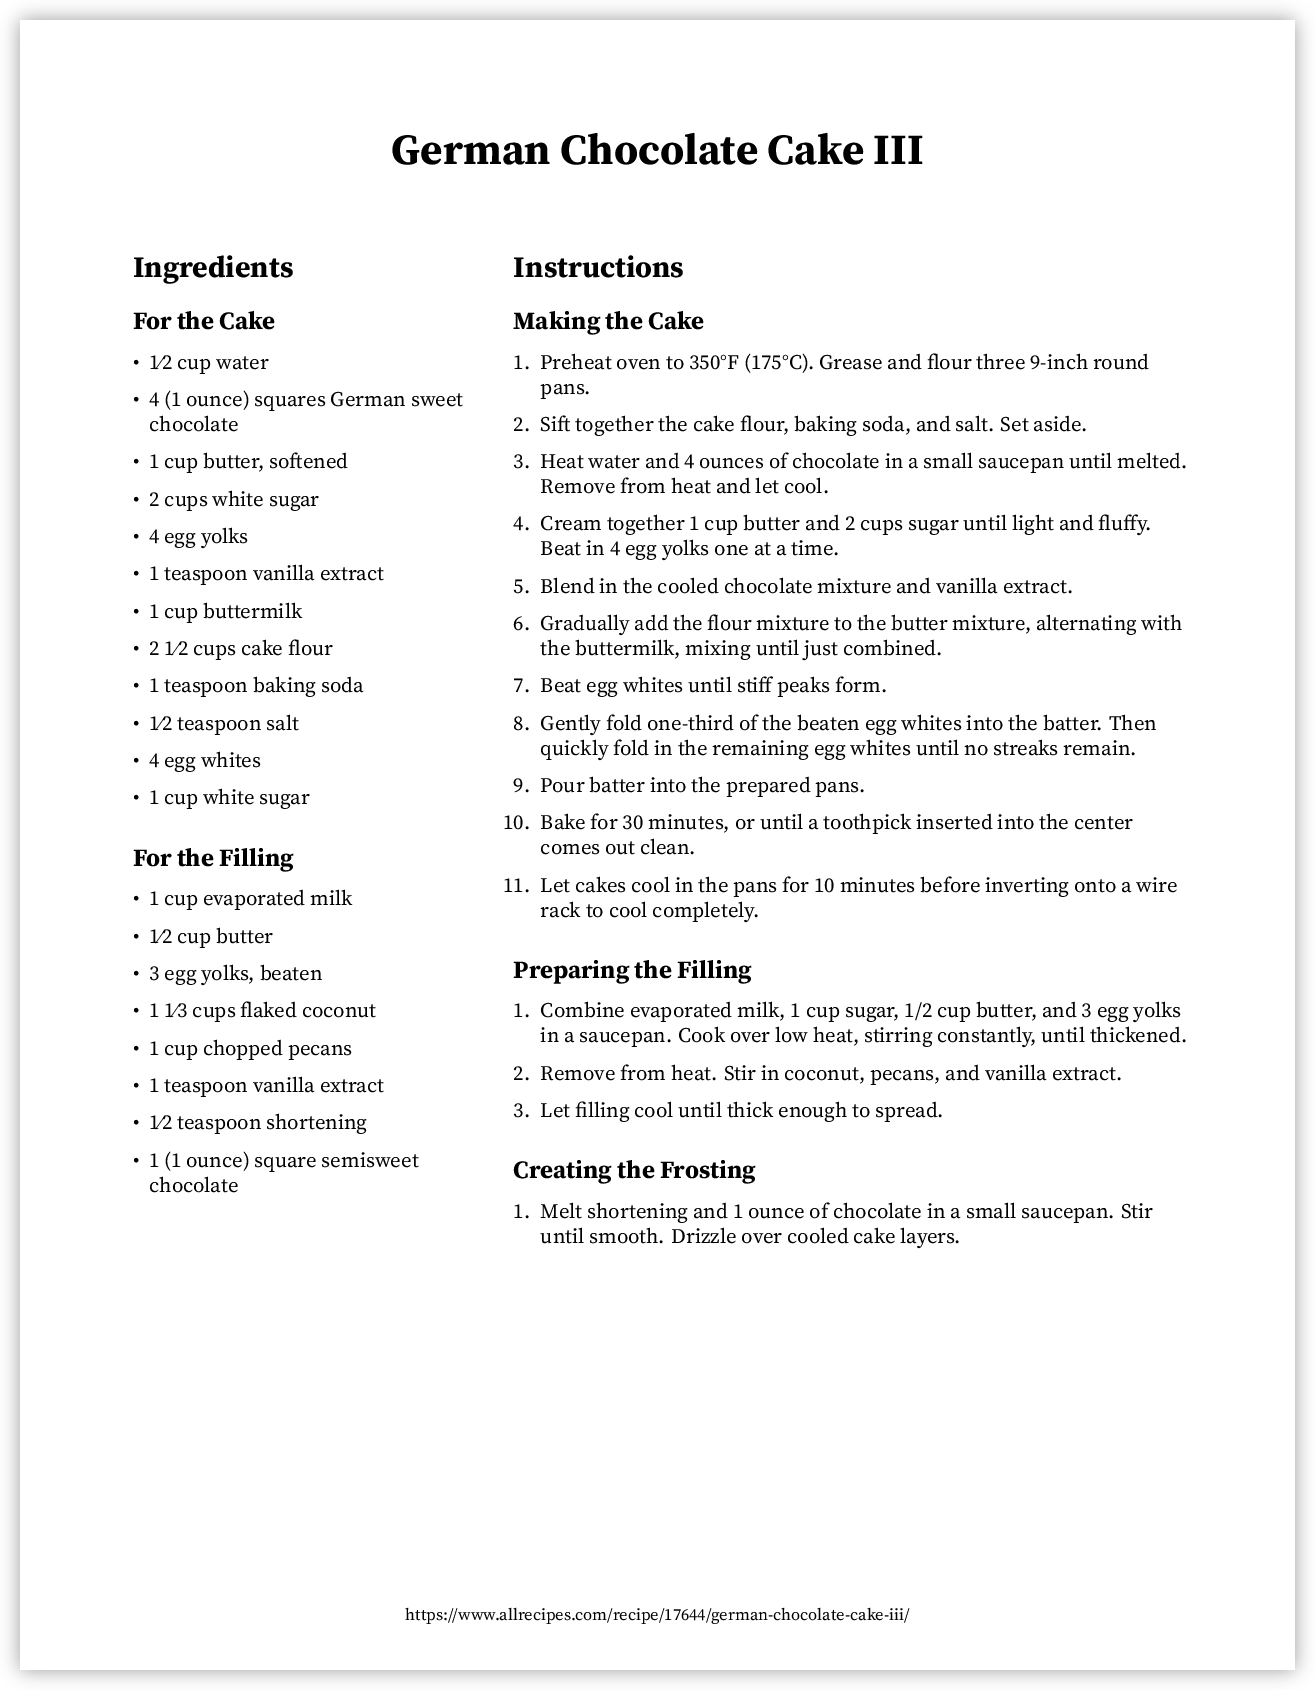
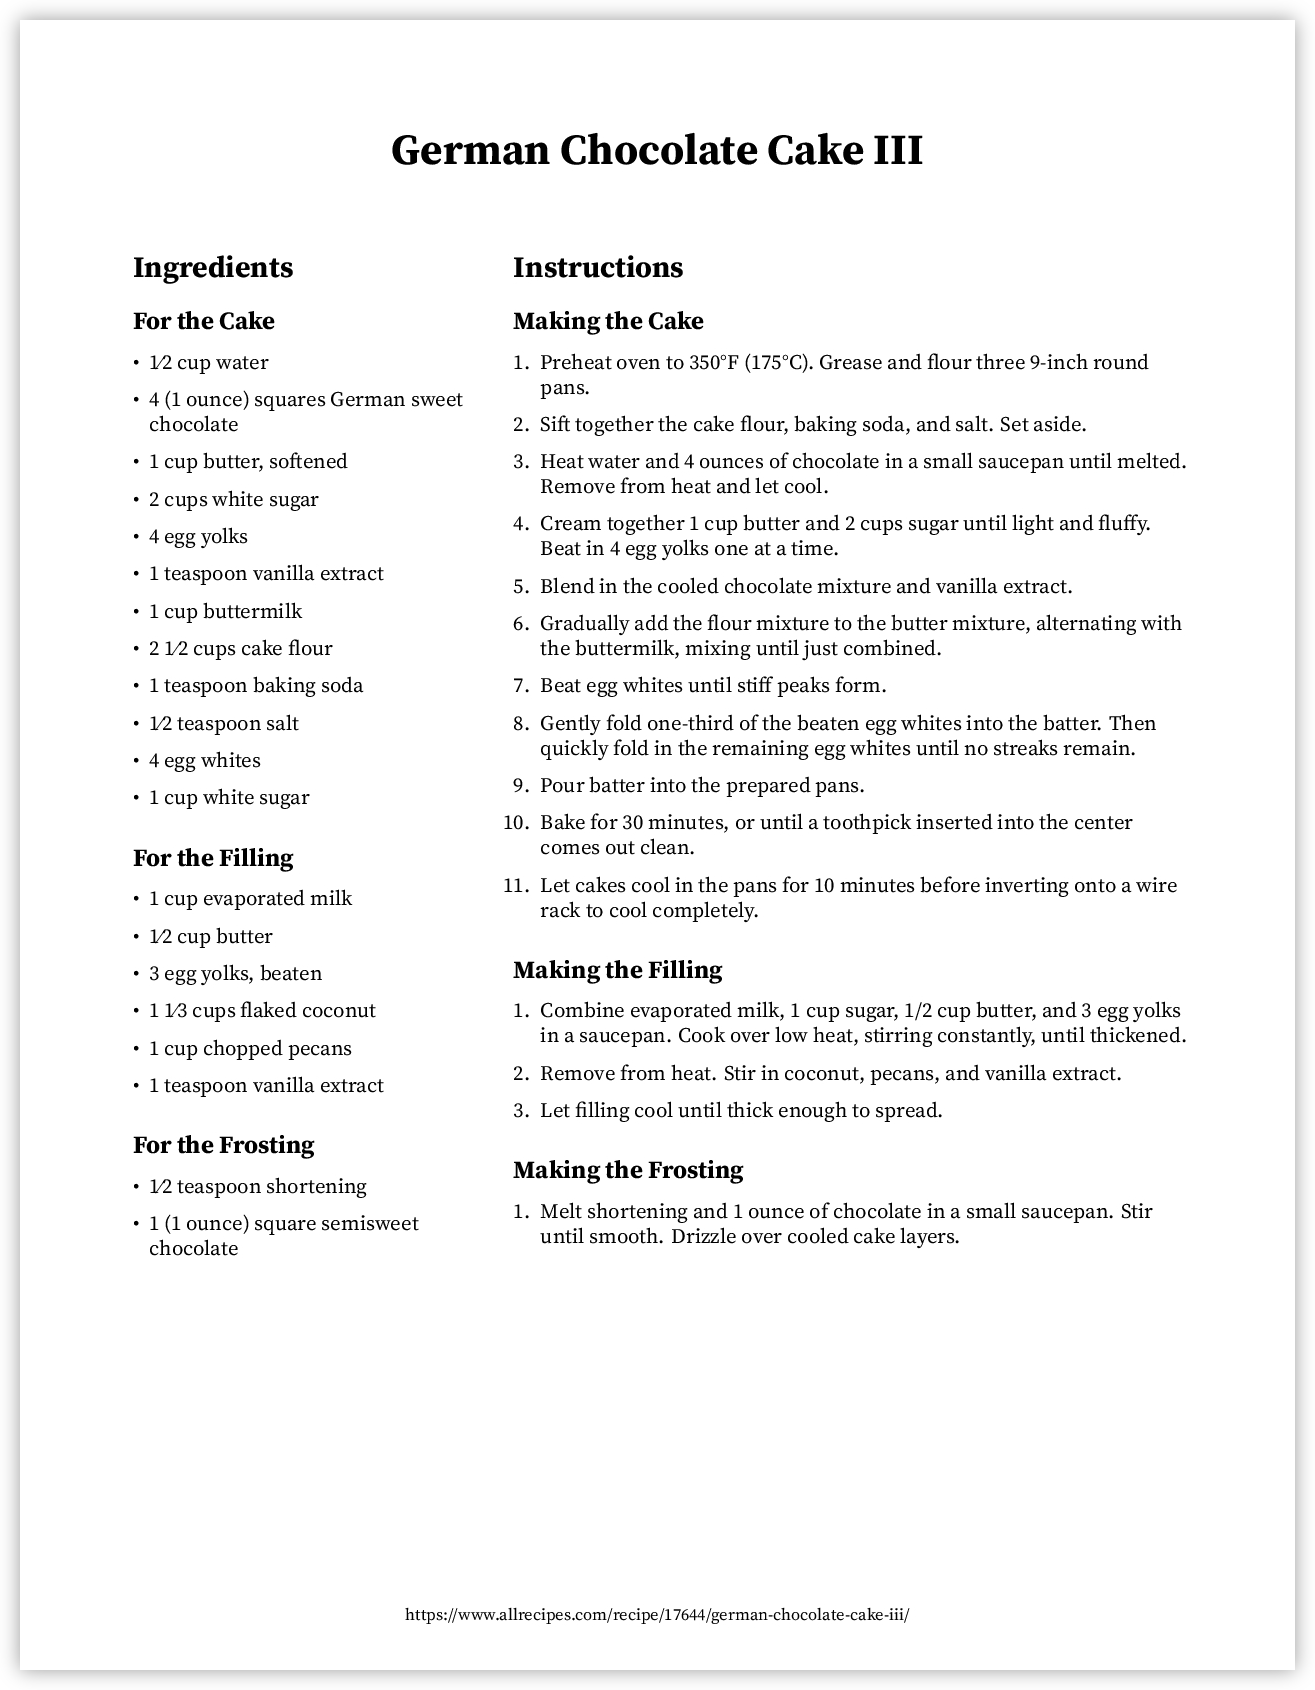
Tweak headings.

Changed region(s): [[0.0935, 0.6462, 0.3118, 0.7385], [0.3741, 0.6769, 0.5924, 0.7077], [0.4053, 0.5538, 0.5612, 0.5846]]

diff --git a/recipe.tex b/recipe.tex
@@ -48,6 +48,9 @@
 \item 1 1⁄3 cups flaked coconut
 \item 1 cup chopped pecans
 \item 1 teaspoon vanilla extract
+\end{itemize}
+\subsection*{For the Frosting}
+\begin{itemize}[leftmargin=*]
 \item 1⁄2 teaspoon shortening
 \item 1 (1 ounce) square semisweet chocolate
 \end{itemize}
@@ -67,13 +70,13 @@
 \item Bake for 30 minutes, or until a toothpick inserted into the center comes out clean.
 \item Let cakes cool in the pans for 10 minutes before inverting onto a wire rack to cool completely.
 \end{enumerate}
-\subsection*{Preparing the Filling}
+\subsection*{Making the Filling}
 \begin{enumerate}[leftmargin=*]
 \item Combine evaporated milk, 1 cup sugar, 1/2 cup butter, and 3 egg yolks in a saucepan. Cook over low heat, stirring constantly, until thickened.
 \item Remove from heat. Stir in coconut, pecans, and vanilla extract.
 \item Let filling cool until thick enough to spread.
 \end{enumerate}
-\subsection*{Creating the Frosting}
+\subsection*{Making the Frosting}
 \begin{enumerate}[leftmargin=*]
 \item Melt shortening and 1 ounce of chocolate in a small saucepan. Stir until smooth. Drizzle over cooled cake layers.
 \end{enumerate}
